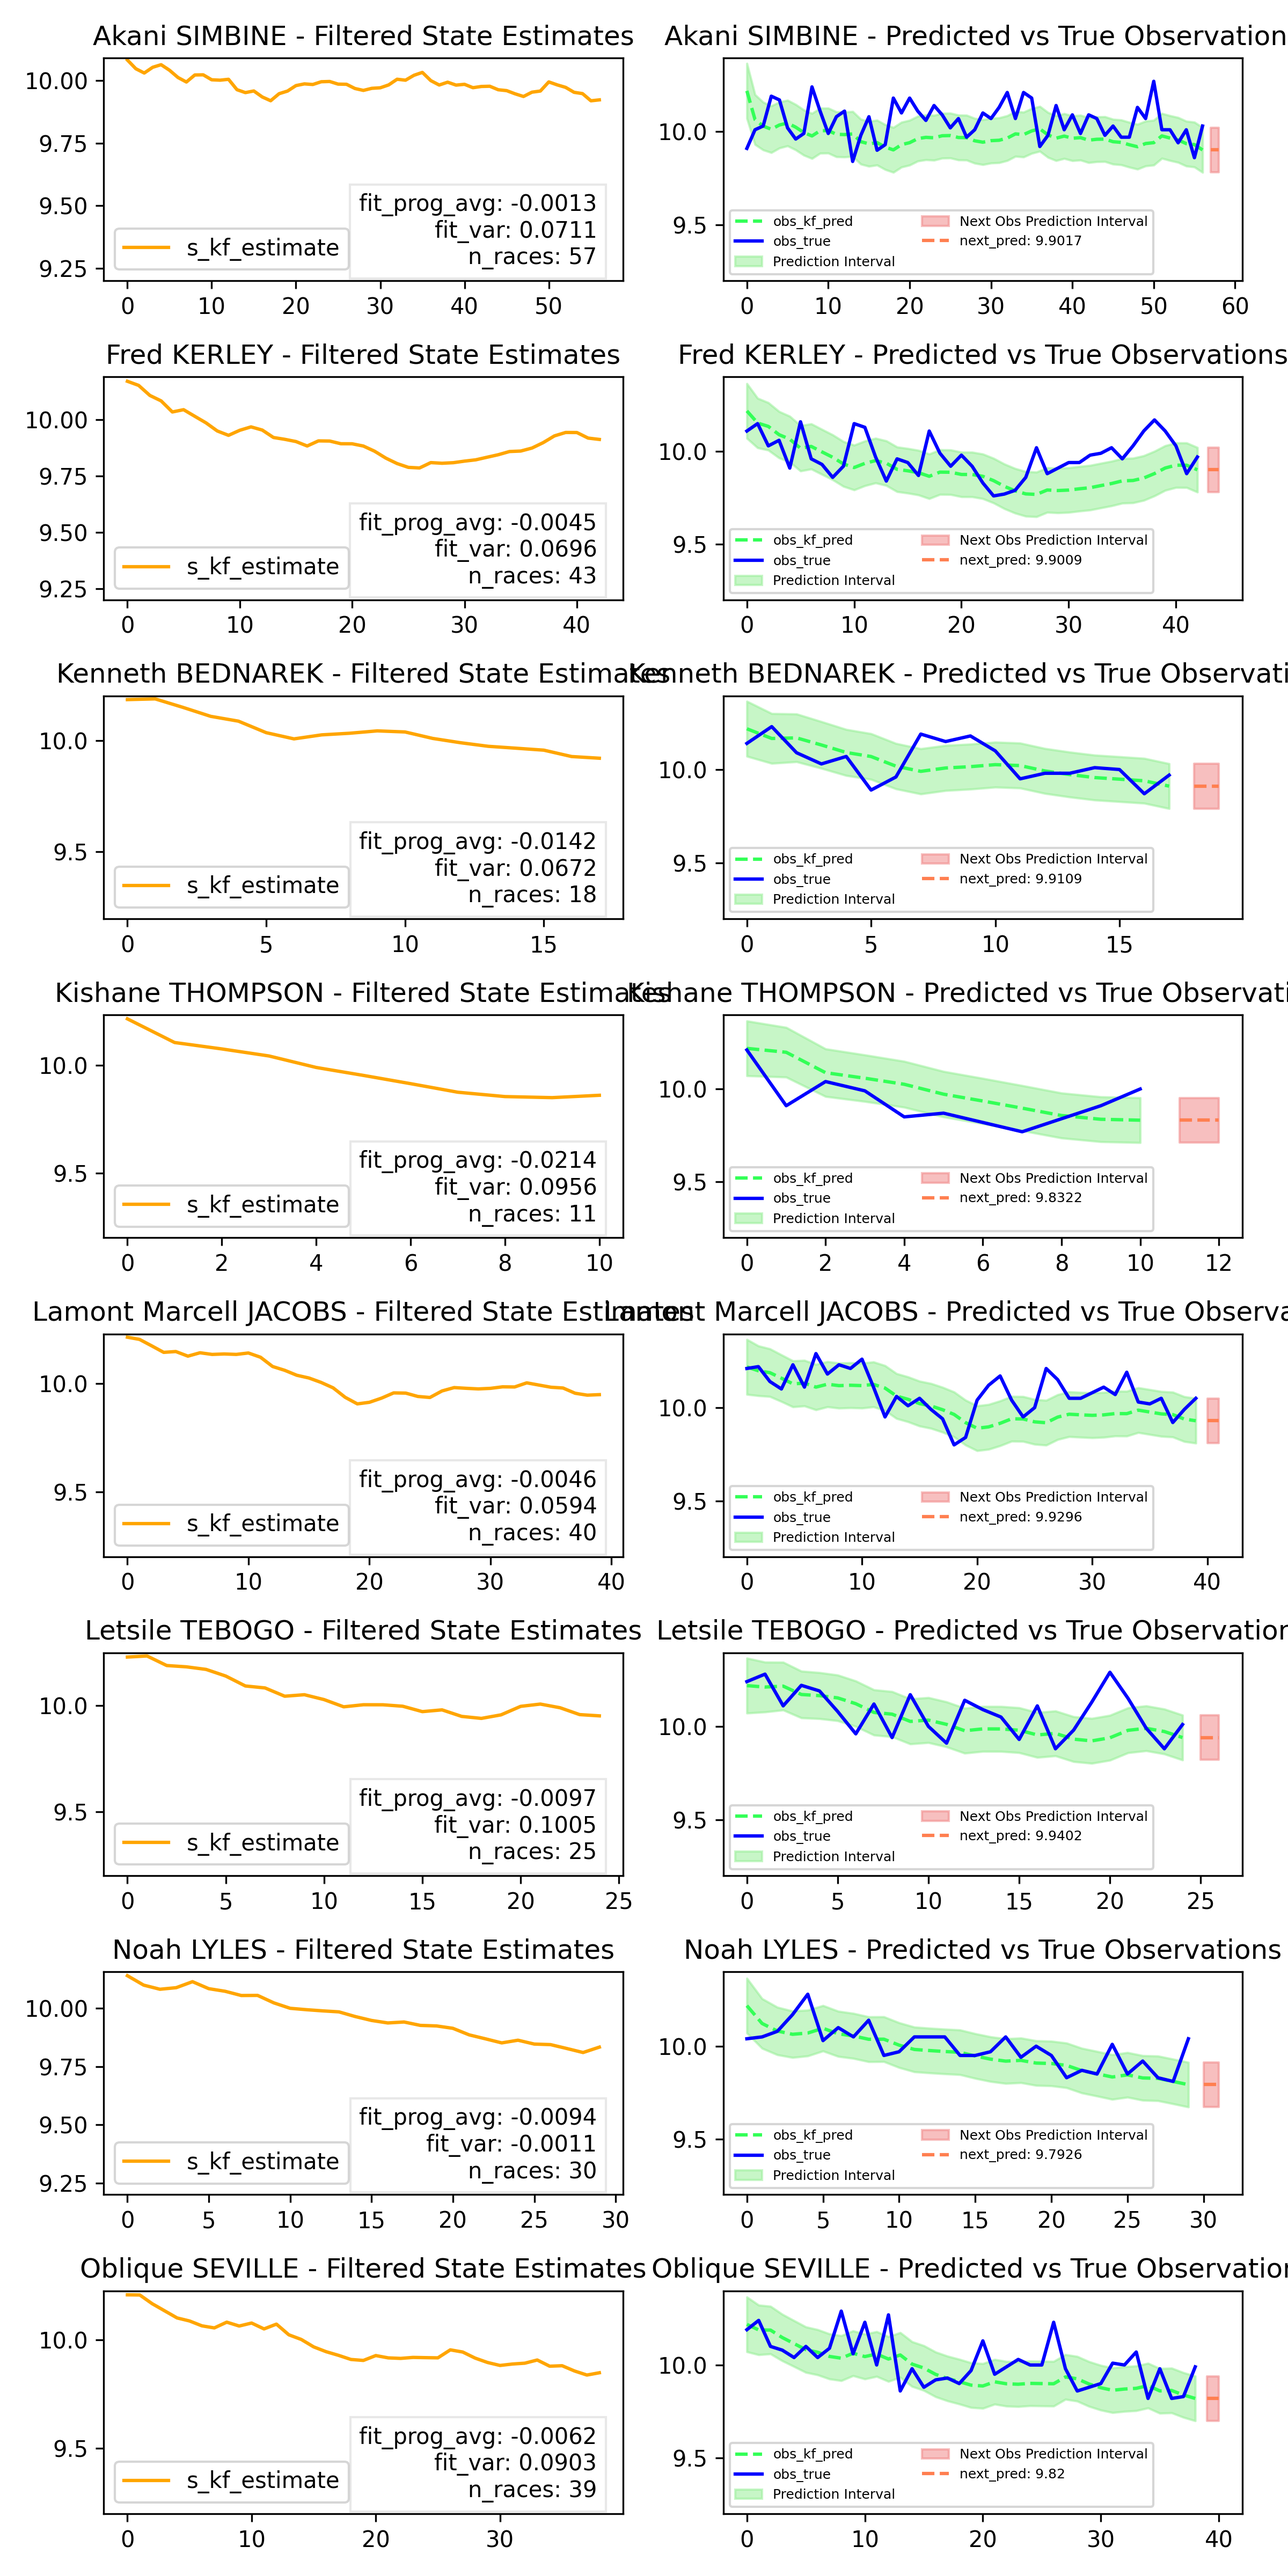
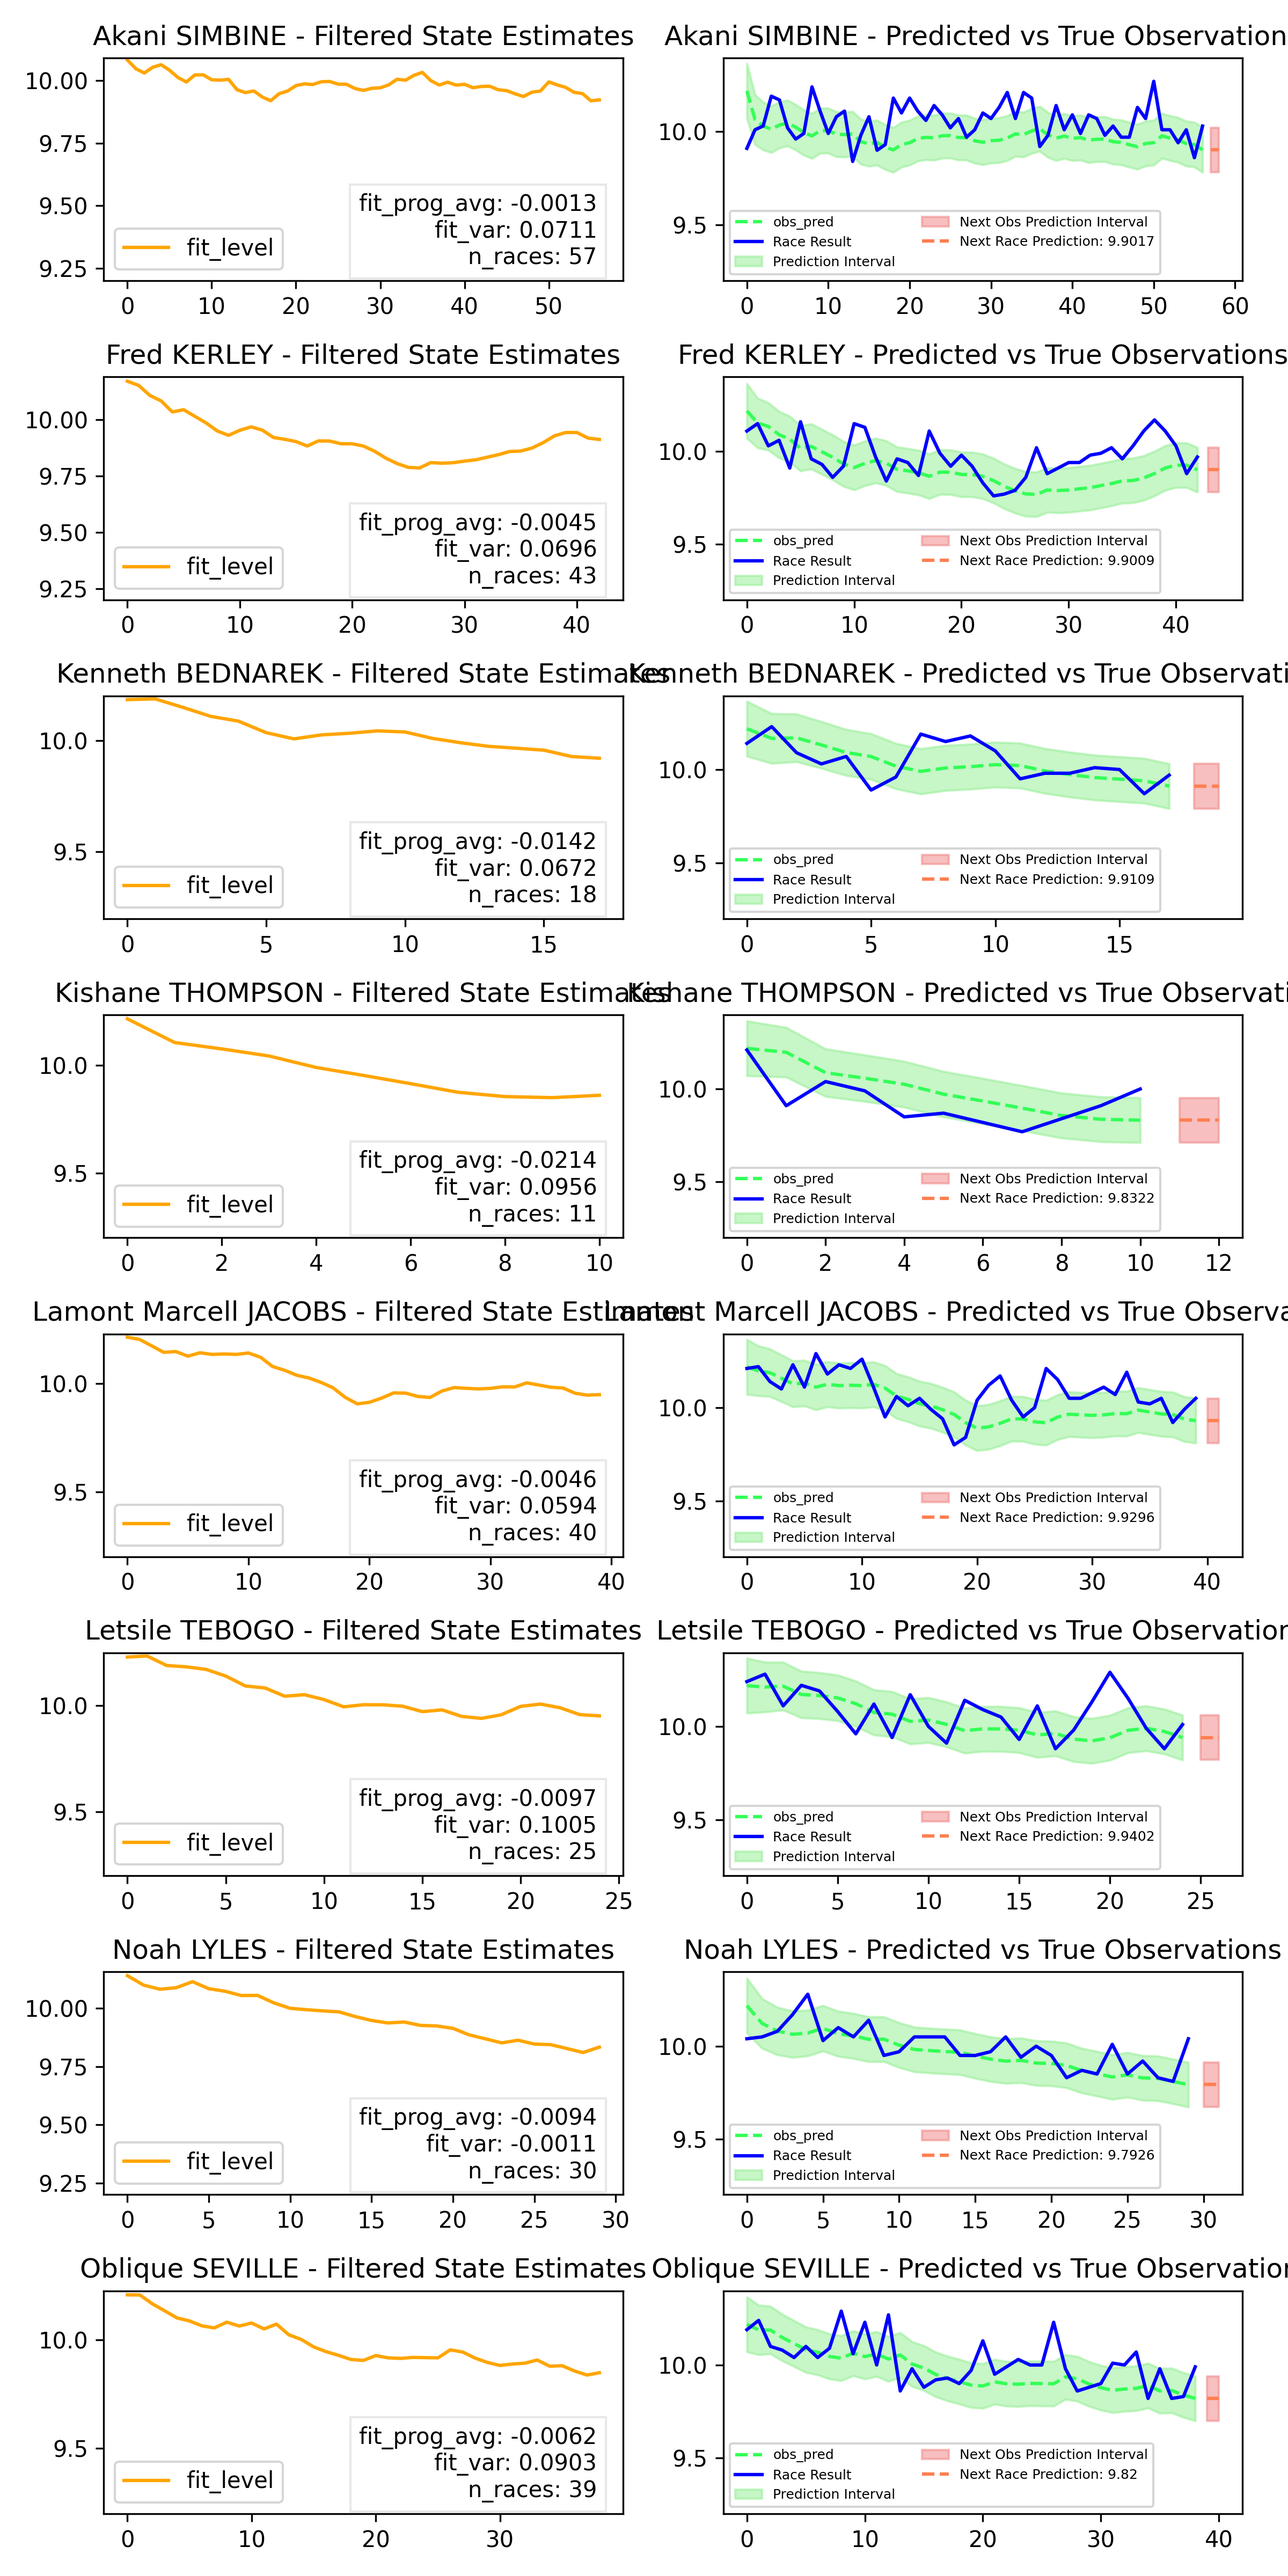
clearer descriptors and readme minor

diff --git a/100m_analysis.py b/100m_analysis.py
@@ -192,7 +192,7 @@ for i, competitor in enumerate(personal_df_list):
         upper_bound = observation_means.numpy().flatten() + 1.96 * np.sqrt(observation_covs.numpy().flatten())
 
         # Plot the filtered state estimates
-        ax_row[0].plot(x_axis, filtered_means.numpy().flatten(), label='s_kf_estimate', color='orange')
+        ax_row[0].plot(x_axis, filtered_means.numpy().flatten(), label='fit_level', color='orange')
         ax_row[0].legend(loc='lower left', ncol=1)
         ax_row[0].set_title(f'{competitor} - Filtered State Estimates')
         ax_row[0].set_ylim(bottom=9.2)  # Adjust y-axis as needed
@@ -207,8 +207,8 @@ for i, competitor in enumerate(personal_df_list):
                        bbox=dict(facecolor='white', edgecolor = 'lightgray', alpha=0.5))
 
         # Plot the predicted observations
-        ax_row[1].plot(x_axis, observation_means.numpy().flatten(), label='obs_kf_pred', linestyle='--', color='#33FF57')
-        ax_row[1].plot(x_axis, obs_true.flatten(), label='obs_true', color='blue')  # Plot true observations for comparison
+        ax_row[1].plot(x_axis, observation_means.numpy().flatten(), label='obs_pred', linestyle='--', color='#33FF57')
+        ax_row[1].plot(x_axis, obs_true.flatten(), label='Race Result', color='blue')  # Plot true observations for comparison
         
         # Shade the prediction intervals for existing observations
         ax_row[1].fill_between(x_axis, lower_bound, upper_bound, 
@@ -238,7 +238,7 @@ for i, competitor in enumerate(personal_df_list):
                                 y_lower_values, 
                                 y_upper_values,
                                 color='lightcoral', alpha=0.5, label='Next Obs Prediction Interval')
-        ax_row[1].plot(x_values_next, predicted_display_mean, label=f'next_pred: {predicted_next_mean_display}', linestyle='--', color='coral')
+        ax_row[1].plot(x_values_next, predicted_display_mean, label=f'Next Race Prediction: {predicted_next_mean_display}', linestyle='--', color='coral')
         
         # Plot the predicted next observation as a continuation
         # ax_row[1].plot(len(filtered_means), predicted_next_mean, 'o', color='lightcoral', label='Predicted Next Obs')

diff --git a/README.md b/README.md
@@ -53,7 +53,12 @@ $\sigma_v = \hat{\sigma}_{clockings}$
 
 ## Commentary of Model 1
   
-Many of the assumptions do not reflect realism in this first iteration of the state-space model. Hopefully, it provides a good starting point for improvement.
+Many of the assumptions do not reflect realism in this first iteration of the state-space model. Hopefully, it provides a good starting point for improvement.  
+  
+In order of importance the following most important points are not yet accounted for correctly. These initial observations are from general knowledge of the sport:  
+- The runners do not exert full effort in races for qualifications or where the stakes are lower to avoid injury and preserve strength for later races or stages.  
+- Earlier in a season, runners are slower than later in a season even if their general progression is on an uptrend.  
+- As the fitness level improves, it becomes increasingly difficult to make incremental imrpovements. Thus, the transmission function of the fitness level state is not linear and does not have normally distributed "noise".
 
 # References 
 
